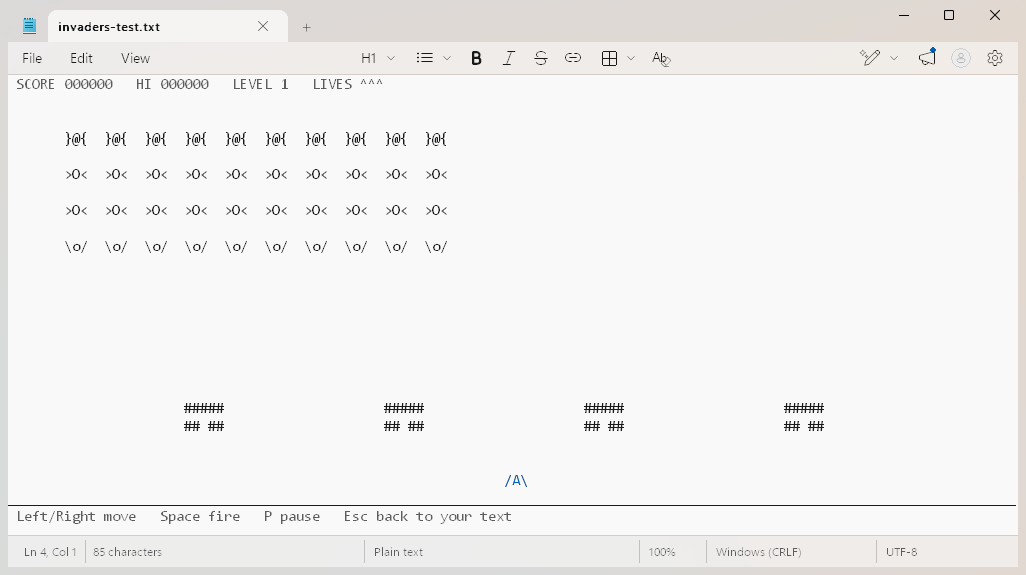
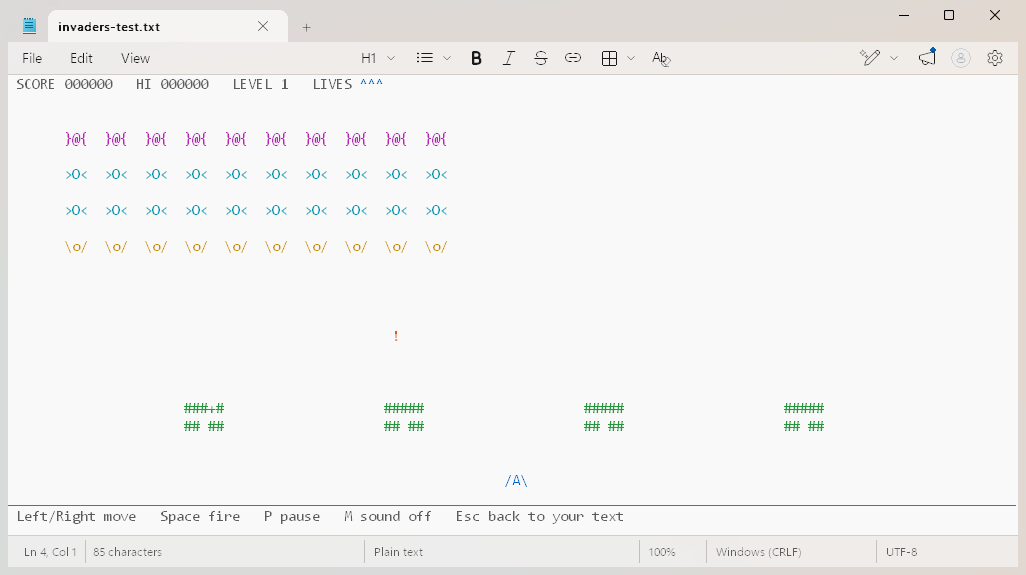
Color the Space Invaders screen
Each alien rank, the shields, the UFO, bombs and the player get their own
basic arcade color, with a brighter set for dark mode.

diff --git a/src/invaders.cpp b/src/invaders.cpp
@@ -223,12 +223,36 @@ void Step(Game& g) {
     g.hiScore = std::max(g.hiScore, g.score);
 }
 
-void Put(std::vector<std::wstring>& scr, int x, int y, const std::wstring& s) {
-    if (y < 0 || y >= static_cast<int>(scr.size())) return;
-    for (size_t i = 0; i < s.size(); ++i) {
-        int cx = x + static_cast<int>(i);
-        if (cx >= 0 && cx < static_cast<int>(scr[y].size())) scr[y][cx] = s[i];
+// The screen is a grid of characters, each with its own color.
+struct Screen {
+    std::vector<std::wstring> text;
+    std::vector<std::vector<COLORREF>> color;
+    Screen(int cols, int rows, COLORREF c)
+        : text(static_cast<size_t>(rows), std::wstring(static_cast<size_t>(cols), L' ')),
+          color(static_cast<size_t>(rows), std::vector<COLORREF>(static_cast<size_t>(cols), c)) {}
+    void Put(int x, int y, const std::wstring& s, COLORREF c) {
+        if (y < 0 || y >= static_cast<int>(text.size())) return;
+        for (size_t i = 0; i < s.size(); ++i) {
+            int cx = x + static_cast<int>(i);
+            if (cx < 0 || cx >= static_cast<int>(text[y].size())) continue;
+            text[y][cx] = s[i];
+            color[y][cx] = c;
+        }
     }
+};
+
+// Basic arcade colors, in a darker and a brighter set so they read on light and dark editors.
+struct Colors {
+    COLORREF top, middle, bottom, shield, ufo, bomb, gameOver;
+};
+
+Colors PickColors(COLORREF background) {
+    int lum = GetRValue(background) * 3 + GetGValue(background) * 6 + GetBValue(background);
+    if (lum < 1280)
+        return {RGB(240, 120, 240), RGB(80, 220, 240), RGB(255, 210, 60), RGB(100, 220, 110), RGB(255, 90, 90),
+                RGB(255, 140, 60), RGB(255, 90, 90)};
+    return {RGB(180, 40, 180), RGB(0, 145, 175), RGB(200, 135, 0), RGB(40, 150, 60), RGB(214, 40, 40),
+            RGB(230, 90, 20), RGB(214, 40, 40)};
 }
 
 void Paint(Game& g, HDC hdc) {
@@ -247,43 +271,54 @@ void Paint(Game& g, HDC hdc) {
         SelectObject(sdc, os);
         DeleteDC(sdc);
     } else if (!g.intro) {
-        std::vector<std::wstring> scr(static_cast<size_t>(g.rows), std::wstring(static_cast<size_t>(g.cols), L' '));
+        const Colors k = PickColors(g.look.background);
+        Screen scr(g.cols, g.rows, g.look.text);
         wchar_t hud[128];
-        swprintf_s(hud, L" SCORE %06d   HI %06d   LEVEL %d   LIVES %s", g.score, g.hiScore, g.level,
-                   std::wstring(static_cast<size_t>(std::max(0, g.lives)), L'^').c_str());
-        Put(scr, 0, 0, hud);
-        if (g.ufoDir) Put(scr, g.ufoX, 2, L"<=>");
-        for (int r = 0; r < g.alienRows; ++r)
-            for (int c = 0; c < g.alienCols; ++c)
-                if (g.alive[static_cast<size_t>(r * g.alienCols + c)])
-                    Put(scr, AlienX(g, c), AlienY(g, r), AlienSprite(r, g.frame));
-        for (const auto& s : g.shields) {
-            Put(scr, s.x, s.y, s.rows[0]);
-            Put(scr, s.x, s.y + 1, s.rows[1]);
+        swprintf_s(hud, L" SCORE %06d   HI %06d   LEVEL %d   LIVES ", g.score, g.hiScore, g.level);
+        scr.Put(0, 0, hud, g.look.muted);
+        scr.Put(static_cast<int>(wcslen(hud)), 0, std::wstring(static_cast<size_t>(std::max(0, g.lives)), L'^'),
+                g.look.accent);
+        if (g.ufoDir) scr.Put(g.ufoX, 2, L"<=>", k.ufo);
+        for (int r = 0; r < g.alienRows; ++r) {
+            COLORREF c = r == 0 ? k.top : r < 3 ? k.middle : k.bottom;
+            for (int col = 0; col < g.alienCols; ++col)
+                if (g.alive[static_cast<size_t>(r * g.alienCols + col)])
+                    scr.Put(AlienX(g, col), AlienY(g, r), AlienSprite(r, g.frame), c);
         }
-        for (const auto& b : g.shots) Put(scr, b.x, b.y, L"|");
-        for (const auto& b : g.bombs) Put(scr, b.x, b.y, L"!");
-        if (!(g.hitFlash && g.hitFlash % 4 < 2)) Put(scr, g.px, PlayerRow(g), L"/A\\");
-        Put(scr, 0, PlayerRow(g) + 1, std::wstring(static_cast<size_t>(g.cols), L'_'));
-        Put(scr, 1, g.rows - 1, sfx::Muted() ? L"Left/Right move   Space fire   P pause   M sound on   Esc back to your text"
-                                           : L"Left/Right move   Space fire   P pause   M sound off   Esc back to your text");
+        for (const auto& s : g.shields) {
+            scr.Put(s.x, s.y, s.rows[0], k.shield);
+            scr.Put(s.x, s.y + 1, s.rows[1], k.shield);
+        }
+        for (const auto& b : g.shots) scr.Put(b.x, b.y, L"|", g.look.accent);
+        for (const auto& b : g.bombs) scr.Put(b.x, b.y, L"!", k.bomb);
+        if (!(g.hitFlash && g.hitFlash % 4 < 2)) scr.Put(g.px, PlayerRow(g), L"/A\\", g.look.accent);
+        scr.Put(0, PlayerRow(g) + 1, std::wstring(static_cast<size_t>(g.cols), L'_'), k.shield);
+        scr.Put(1, g.rows - 1,
+                sfx::Muted() ? L"Left/Right move   Space fire   P pause   M sound on   Esc back to your text"
+                             : L"Left/Right move   Space fire   P pause   M sound off   Esc back to your text",
+                g.look.muted);
         if (g.over || g.paused) {
             std::wstring msg = g.over ? L"  G A M E   O V E R  -  Enter to play again  " : L"  P A U S E D  ";
             int y = g.rows / 2, x = std::max(0, (g.cols - static_cast<int>(msg.size())) / 2);
-            Put(scr, x, y - 1, std::wstring(msg.size(), L' '));
-            Put(scr, x, y, msg);
-            Put(scr, x, y + 1, std::wstring(msg.size(), L' '));
+            COLORREF c = g.over ? k.gameOver : g.look.text;
+            scr.Put(x, y - 1, std::wstring(msg.size(), L' '), c);
+            scr.Put(x, y, msg, c);
+            scr.Put(x, y + 1, std::wstring(msg.size(), L' '), c);
         }
         HGDIOBJ of = SelectObject(dc, g.look.font);
         SetBkMode(dc, TRANSPARENT);
+        // Draw each row in runs of one color.
         for (int y = 0; y < g.rows; ++y) {
-            SetTextColor(dc, y == 0 || y == g.rows - 1 ? g.look.muted : g.look.text);
-            TextOutW(dc, 0, y * g.lineH, scr[static_cast<size_t>(y)].c_str(), g.cols);
+            const auto& line = scr.text[static_cast<size_t>(y)];
+            const auto& cols = scr.color[static_cast<size_t>(y)];
+            for (int x = 0; x < g.cols;) {
+                int e = x;
+                while (e < g.cols && cols[static_cast<size_t>(e)] == cols[static_cast<size_t>(x)]) ++e;
+                SetTextColor(dc, cols[static_cast<size_t>(x)]);
+                TextOutW(dc, x * g.charW, y * g.lineH, line.c_str() + x, e - x);
+                x = e;
+            }
         }
-        // Player and mystery ship in the accent color.
-        SetTextColor(dc, g.look.accent);
-        if (!(g.hitFlash && g.hitFlash % 4 < 2)) TextOutW(dc, g.px * g.charW, PlayerRow(g) * g.lineH, L"/A\\", 3);
-        if (g.ufoDir) TextOutW(dc, g.ufoX * g.charW, 2 * g.lineH, L"<=>", 3);
         SelectObject(dc, of);
     }
     BitBlt(hdc, 0, 0, rc.right, rc.bottom, dc, 0, 0, SRCCOPY);
